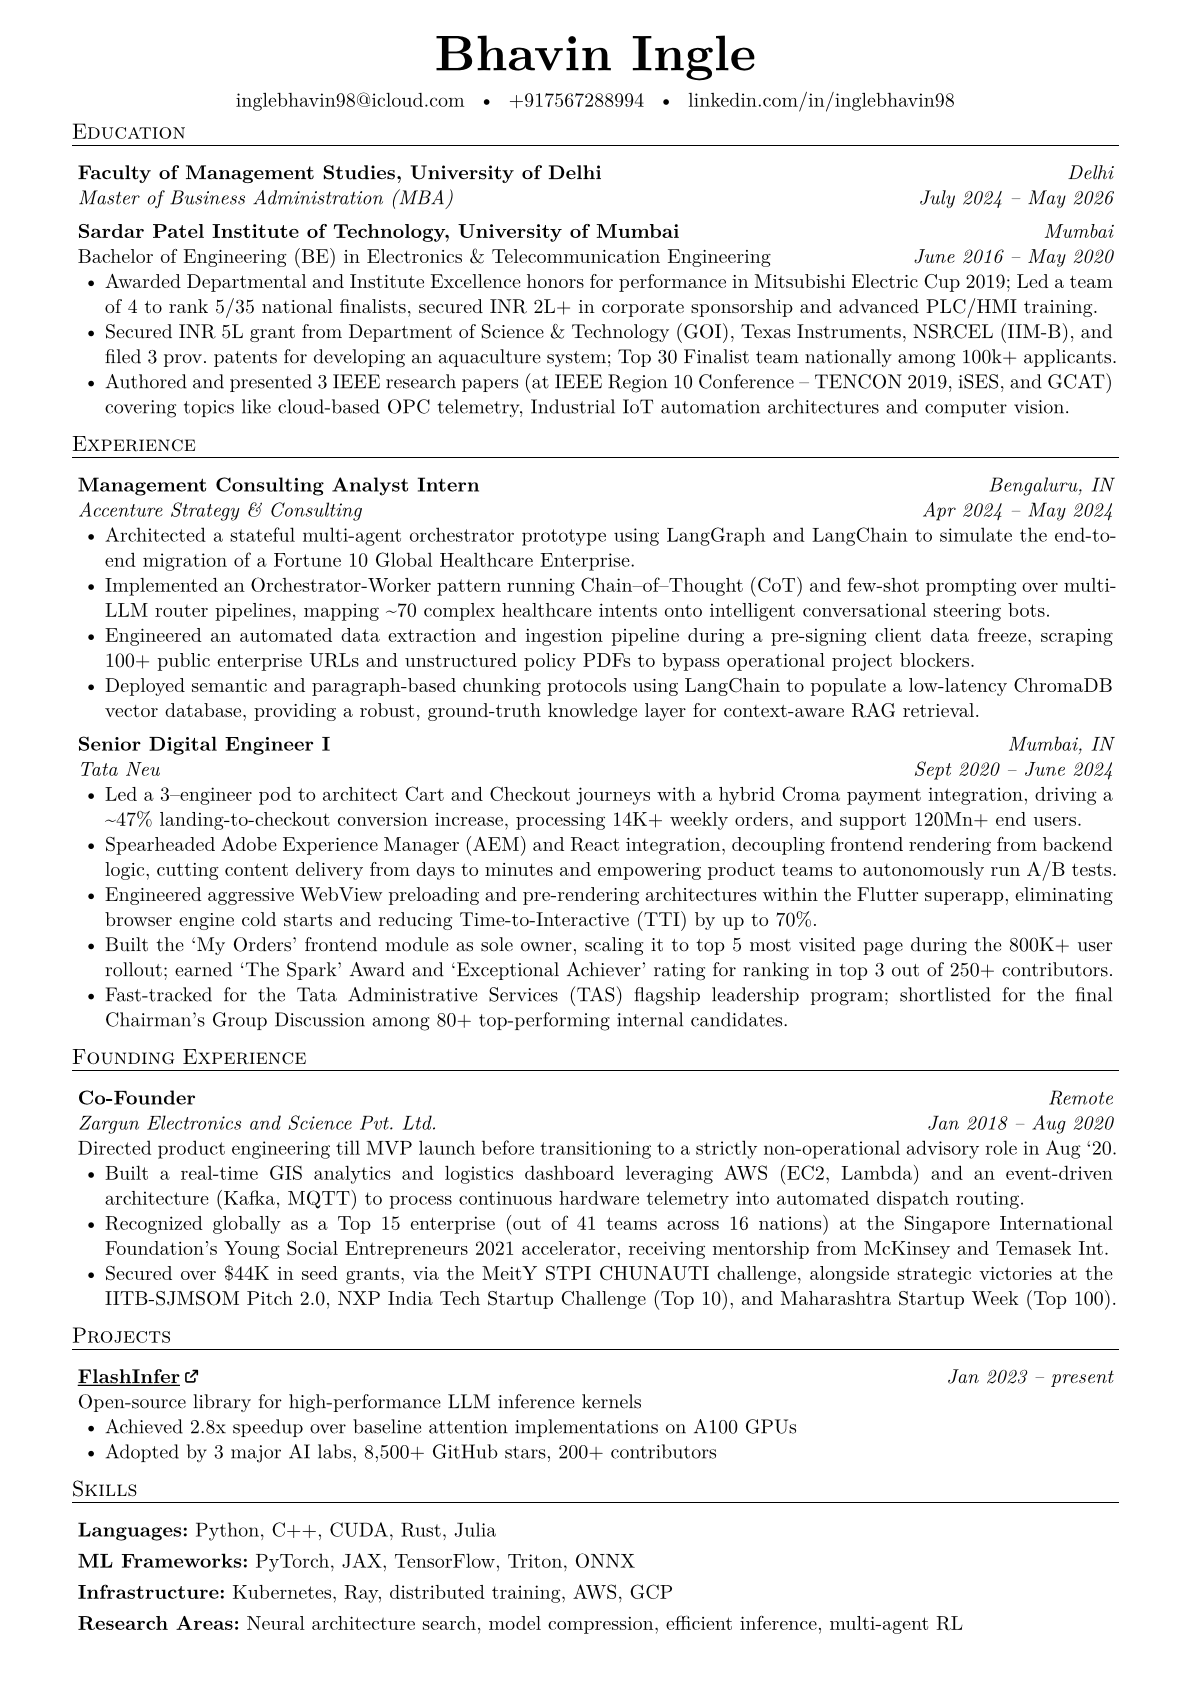
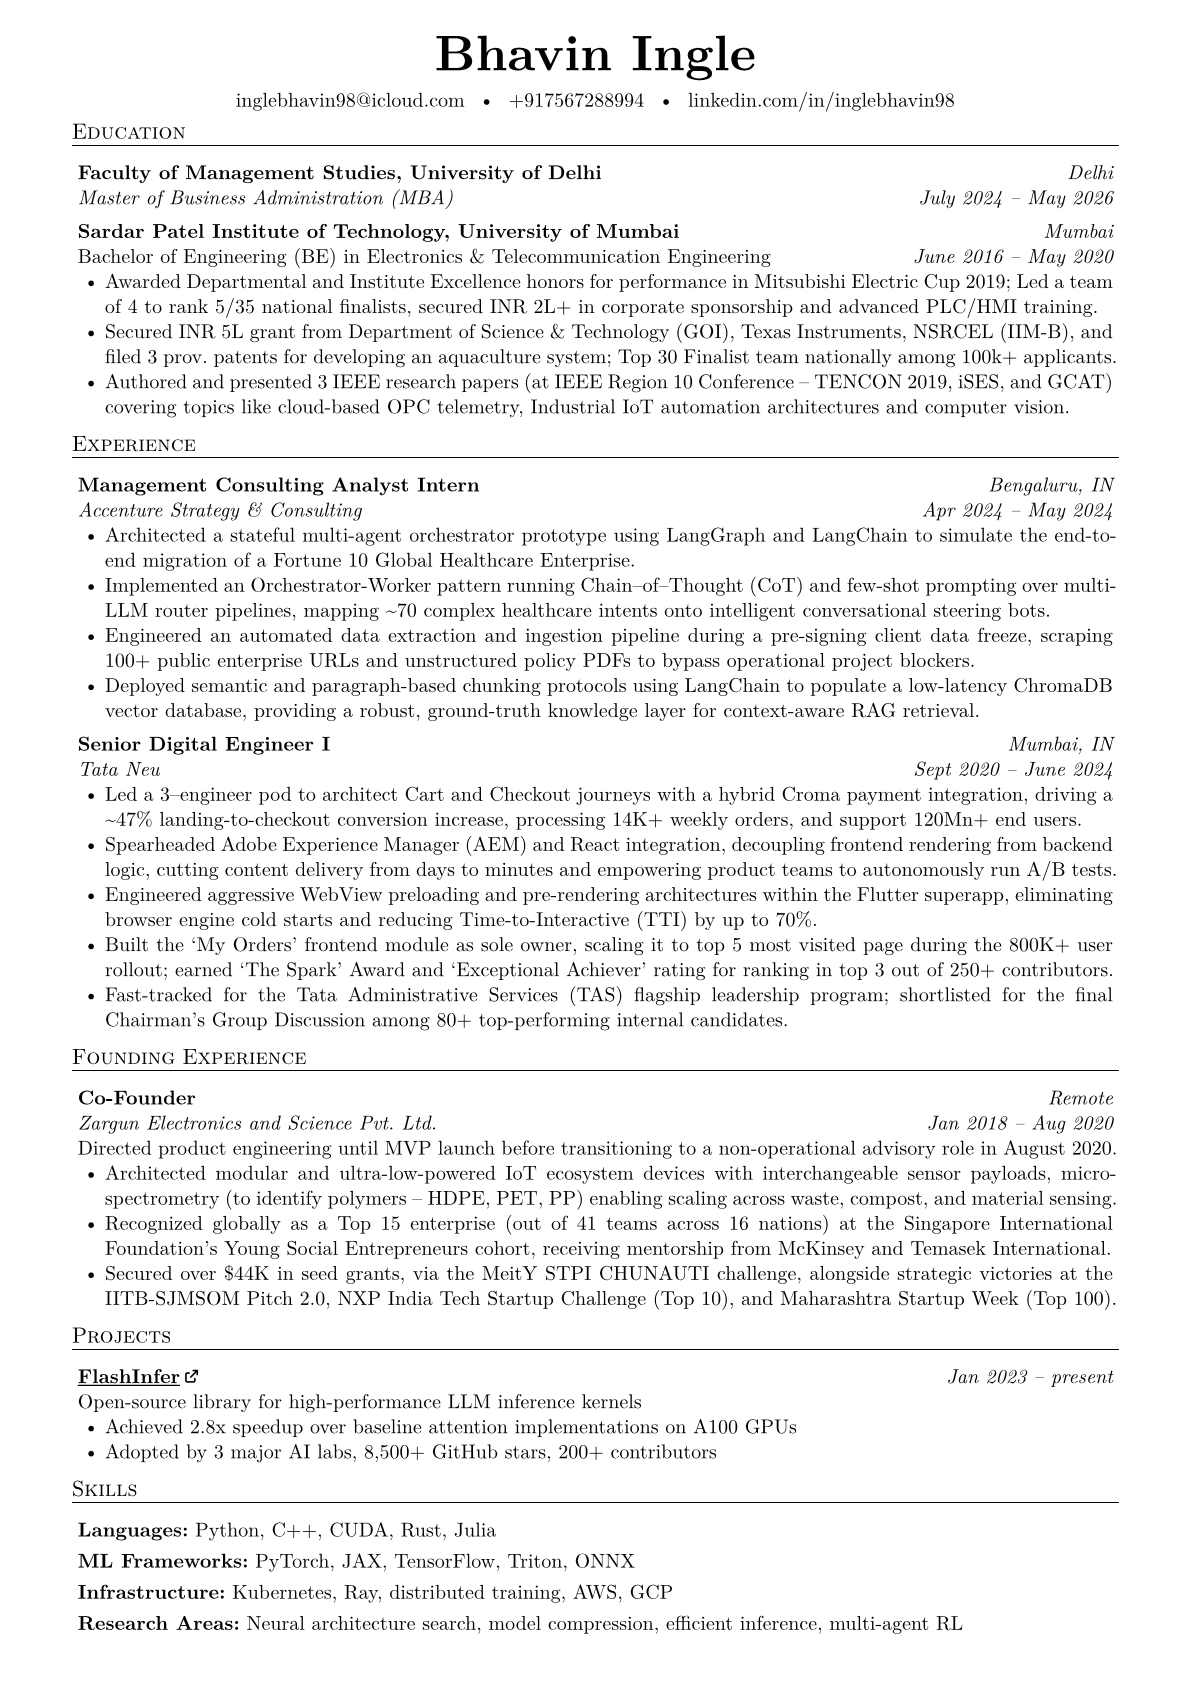
Reduced zargun points

Changed region(s): [[0.0932, 0.6793, 0.932, 0.772]]

diff --git a/sb2nov-resume/rendercv_output/Bhavin_Ingle_CV.html b/sb2nov-resume/rendercv_output/Bhavin_Ingle_CV.html
@@ -110,13 +110,13 @@
         <p><em>Remote</em></p>
         <p><em>Jan 2018 – Aug 2020</em></p>
         <p><em>Zargun Electronics and Science Pvt. Ltd.</em></p>
-        <p>Directed product engineering till MVP launch before transitioning to a strictly non-operational advisory role in Aug '20.</p>
+        <p>Directed product engineering until MVP launch before transitioning to a non-operational advisory role in August 2020.</p>
         <ul>
         <li>
-        <p>Built a real-time GIS analytics and logistics dashboard leveraging AWS (EC2, Lambda) and an event-driven architecture (Kafka, MQTT) to process continuous hardware telemetry into automated dispatch routing.</p>
+        <p>Architected modular and ultra-low-powered IoT ecosystem devices with interchangeable sensor payloads, micro-spectrometry (to identify polymers – HDPE, PET, PP) enabling scaling across waste, compost, and material sensing.</p>
         </li>
         <li>
-        <p>Recognized globally as a Top 15 enterprise (out of 41 teams across 16 nations) at the Singapore International Foundation's Young Social Entrepreneurs 2021 accelerator, receiving mentorship from McKinsey and Temasek Int.</p>
+        <p>Recognized globally as a Top 15 enterprise (out of 41 teams across 16 nations) at the Singapore International Foundation's Young Social Entrepreneurs cohort, receiving mentorship from McKinsey and Temasek International.</p>
         </li>
         <li>
         <p>Secured over $44K in seed grants, via the MeitY STPI CHUNAUTI challenge, alongside strategic victories at the IITB-SJMSOM Pitch 2.0, NXP India Tech Startup Challenge (Top 10), and Maharashtra Startup Week (Top 100).</p>

diff --git a/sb2nov-resume/rendercv_output/Bhavin_Ingle_CV.md b/sb2nov-resume/rendercv_output/Bhavin_Ingle_CV.md
@@ -80,11 +80,11 @@ Bachelor of Engineering (BE) in Electronics & Telecommunication Engineering
 
 *Zargun Electronics and Science Pvt. Ltd.*
 
-Directed product engineering till MVP launch before transitioning to a strictly non-operational advisory role in Aug '20.
+Directed product engineering until MVP launch before transitioning to a non-operational advisory role in August 2020.
 
-- Built a real-time GIS analytics and logistics dashboard leveraging AWS (EC2, Lambda) and an event-driven architecture (Kafka, MQTT) to process continuous hardware telemetry into automated dispatch routing.
+- Architected modular and ultra-low-powered IoT ecosystem devices with interchangeable sensor payloads, micro-spectrometry (to identify polymers – HDPE, PET, PP) enabling scaling across waste, compost, and material sensing.
 
-- Recognized globally as a Top 15 enterprise (out of 41 teams across 16 nations) at the Singapore International Foundation's Young Social Entrepreneurs 2021 accelerator, receiving mentorship from McKinsey and Temasek Int.
+- Recognized globally as a Top 15 enterprise (out of 41 teams across 16 nations) at the Singapore International Foundation's Young Social Entrepreneurs cohort, receiving mentorship from McKinsey and Temasek International.
 
 - Secured over $44K in seed grants, via the MeitY STPI CHUNAUTI challenge, alongside strategic victories at the IITB-SJMSOM Pitch 2.0, NXP India Tech Startup Challenge (Top 10), and Maharashtra Startup Week (Top 100).
 

diff --git a/sb2nov-resume/Todo.md b/sb2nov-resume/Todo.md
@@ -44,3 +44,13 @@ Solving, Complex Analysis, RESTAPI, LLMs, Generative AI, RAG, CAG, Agentic AI, M
 Fine-Tuning, Machine Learning, LangChain, LangGraph, OpenAI, NLP
 Languages/Database: Typescript, JavaScript, Python, MySQL, Postgres, MongoDB, Node.js
 Developer Tools: Git, VS Code, Visual Studio, IntelliJ, Eclipse, AWS S3, DBeaver, Kubernetes, Docker.
+
+----
+
+- Pioneered a handheld micro-spectrometry sensor utilizing optical spectroscopy to precisely classify post-consumer polymers (HDPE, PET, PP), successfully bypassing the high error rates of standard Computer Vision models.
+
+- Architected modular and ultra-low-powered IoT ecosystem devices with interchangeable sensor payloads, micro-spectrometry (to identify polymers – HDPE, PET, PP)
+
+enabling horizontal scaling across waste,compost, and material sensing.
+
+- Built a real-time GIS analytics and logistics dashboard leveraging AWS (EC2, Lambda) and an event-driven architecture (Kafka, MQTT) to process continuous hardware telemetry into automated dispatch routing.

diff --git a/README.md b/README.md
@@ -13,5 +13,4 @@ Branches:
     - ai-pm: specific to ai pm
 
 try
-- keep statuc in base, and complie in branches
-- 
+- keep static info in base, and complie in branches
